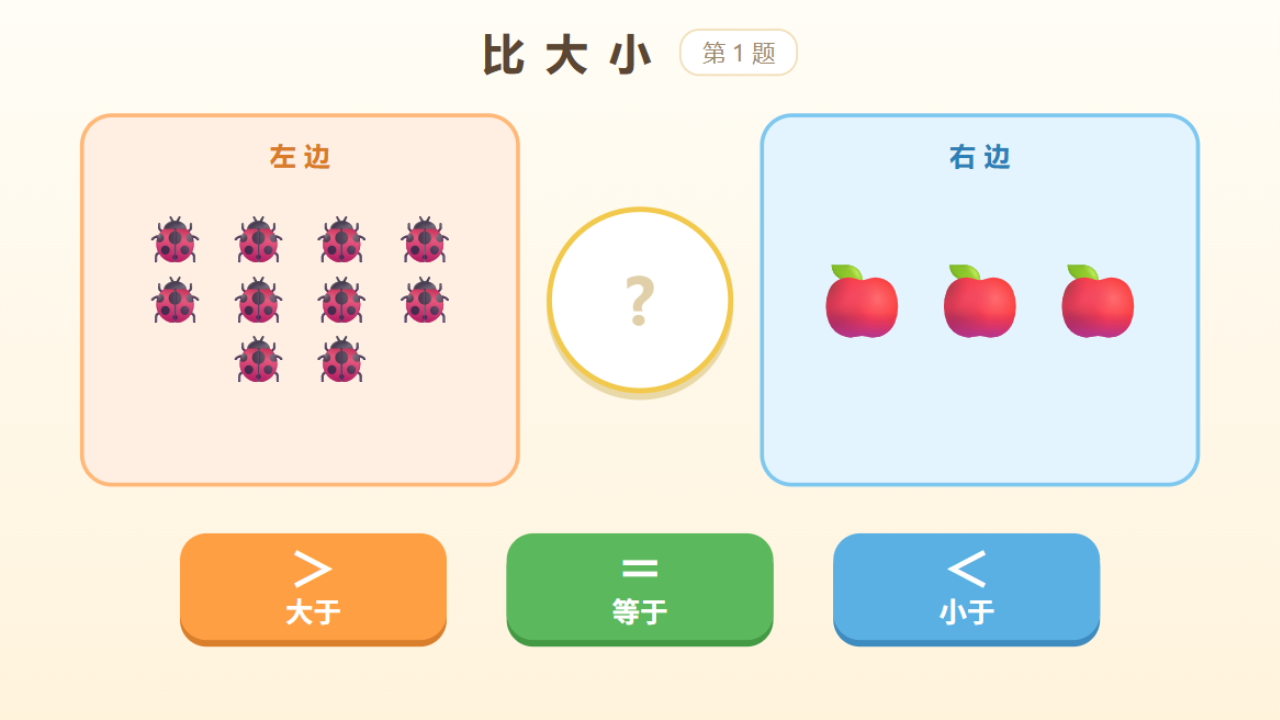
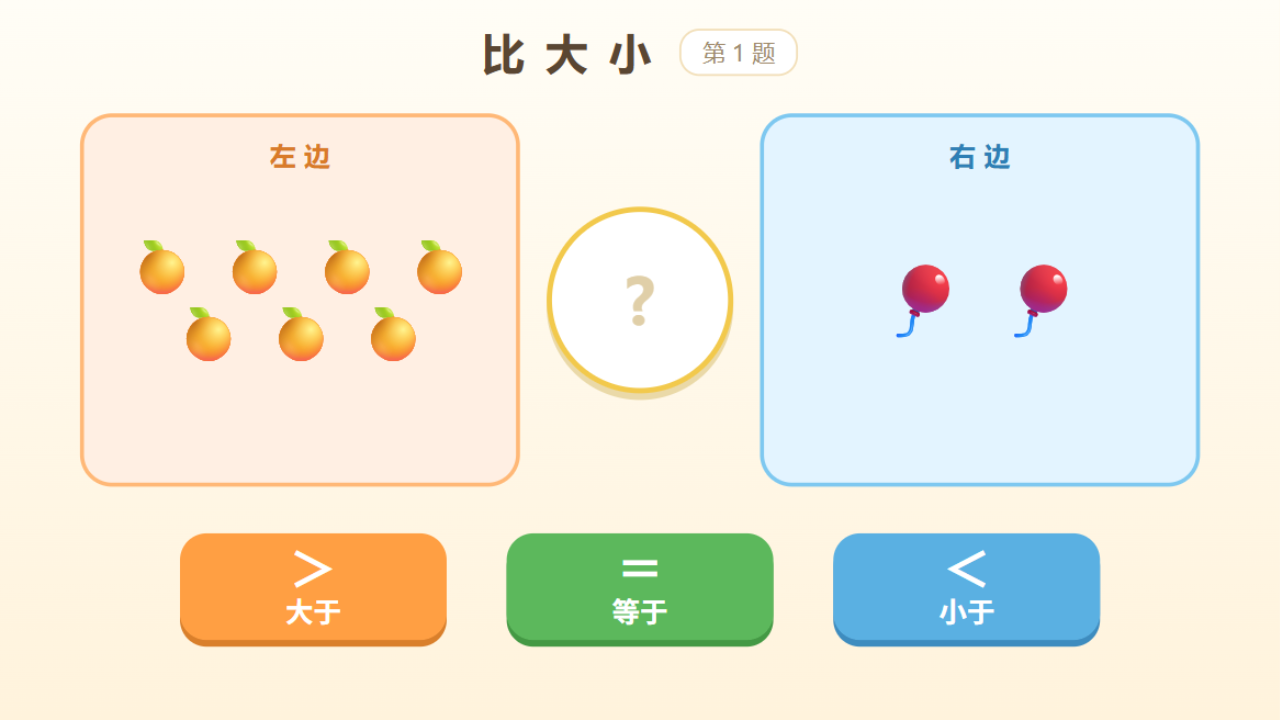
比大小图案池从emoji改为12种内嵌SVG手绘卡通物品(苹果/香蕉/草莓/橙子/葡萄/西瓜/星星/气球/花朵/瓢虫/小鱼/礼物，粗描边亮色与争霸赛画风统一)，修复缺emoji字体的教室电脑数数对象显示方框问题；首页清除全部emoji装饰(标题/游戏名/兜底图标改文字与汉字)，教室精简系统不再出方框；更新比大小预览图

Changed region(s): [[0.0938, 0.3056, 0.375, 0.55], [0.625, 0.3667, 0.9062, 0.4889]]

diff --git a/index.html b/index.html
@@ -91,7 +91,7 @@
 <body>
 <div class="wrap">
     <div class="hero">
-        <h1>🎮 小学数学游戏目录</h1>
+        <h1>小学数学游戏目录</h1>
         <p>先选年级 → 每个游戏的卡片就是它的打开画面 · 教材版本：人教版（2022新课标）</p>
     </div>
 
@@ -103,7 +103,7 @@
         <div id="gameGrid"></div>
     </div>
 
-    <footer>📌 游戏按年级归档：小学一年级/ · 二年级/ · 三年级/ · 四年级/ · 通用工具/ · 卡片背景为游戏初始画面截图（thumbs/）</footer>
+    <footer> 游戏按年级归档：小学一年级/ · 二年级/ · 三年级/ · 四年级/ · 通用工具/ · 卡片背景为游戏初始画面截图（thumbs/）</footer>
 </div>
 
 <script>
@@ -112,69 +112,69 @@
    s = 预览图文件名（thumbs/<s>.png，没有预览图就不写 s，卡片自动用渐变+图标兜底） */
 var GRADES = [
 { id:'g1', name:'小学一年级', short:'一', c:'#E8623C', tag:'当前重点年级', games:[
-  { n:'🤼 数学拔河', f:'小学一年级/数学拔河.html', d:'课堂口算竞技 · 两队对战拉锯，难度可调（20以内/100以内/1000以内）', s:'tuohe', b:'可玩' },
-  { n:'🏁 数学赛车', f:'小学一年级/数学赛车.html', d:'口算竞速无限出题 · 单人VS AI / 双人对战 · 可自定义题库与BGM', s:'saiche', b:'可玩' },
-  { n:'🧑🤝🧑 排队找第几', f:'小学一年级/排队找第几.html', d:'基数（几个）与序数（第几）· 左右方位专项 · 语音读题', s:'paidui', b:'可玩' },
-  { n:'🕐 认识钟表', f:'小学一年级/认识钟表.html', d:'整时/半时口述教具 · 随机时间 + 情景模式「淘气的一天」', s:'zhongbiao', b:'可玩' },
-  { n:'🏎 飞驰人生口算', f:'小学一年级/飞驰人生口算.html', d:'智能出题（年级/知识点/难度）· 三人同台竞速PK · 连击冲线', s:'feichi', b:'可玩' },
-  { n:'🫧 凑十对对碰', f:'小学一年级/凑十对对碰.html', d:'凑十法专项（见8想2）· 泡泡碰碰 / 翻牌配对 / 闪电连击', s:'coudui', b:'可玩' },
-  { n:'🛒 欢乐购物街', f:'小学一年级/欢乐购物街.html', d:'认识人民币 · 元角进率 · 付钱找零 · 认一认/换零钱/去购物/小收银员', s:'gouwu', b:'可玩' },
-  { n:'🕵 图形特工队', f:'小学一年级/图形特工队.html', d:'认识图形（立体+平面）· 打地鼠/分拣快递/猜猜是谁/方位寻宝', s:'tegong', b:'可玩' },
-  { n:'⚖ 数字天平', f:'小学一年级/数字天平.html', d:'比多少 · 比大小 · 100以内数位（57 vs 75 拆数位看）三模式', s:'tianping', b:'可玩' },
-  { n:'📿 规律串珠师', f:'小学一年级/规律串珠师.html', d:'找规律 · AB/ABC/AAB 模式识别与创造 · 接龙猜珠/考考同桌', s:'chuanzhu', b:'可玩' },
-  { n:'🔥 破十训练营', f:'小学一年级/破十训练营.html', d:'20以内退位减法（下册重点）· 破十法/平十法 · 小棒拆解三步互动', s:'poshi', b:'可玩' },
-  { n:'🎲 飞行棋', f:'小学一年级/飞行棋.html', d:'积分兑换掷骰子走棋 · 落格事件（奖品/特权/惩罚）· 库存管理', s:'feixingqi', b:'可玩' },
-  { n:'🗺 飞行棋地图编辑器', f:'小学一年级/地图编辑器.html', d:'自定义棋盘地图 · S形/Z形/环形预设 · 保存后直接进入飞行棋', s:'ditu', b:'可玩' },
-  { n:'🍭 数字转盘小游戏', f:'小学一年级/数字转盘小游戏.html', d:'转盘组数 · 数的认识与比大小对战', s:'zhuanpan', b:'可玩' },
-  { n:'🍭 数字转盘 · 同数对决版', f:'小学一年级/数字转盘小游戏 每轮转动一次.html', d:'每轮转动一次的对决玩法', s:'zhuanpan2', b:'可玩' },
-  { n:'👀 看图说数字', f:'小学一年级/看图说数字.html', d:'看图说数 · 数的认识与比大小', s:'kantu', b:'可玩' },
-  { n:'🔢 数字识图闯关', f:'小学一年级/数字识图闯关.html', d:'10以内数数（含0）· 左右两队PK · 答对放烟花 · 题量可设置', s:'shitu', b:'可玩' },
-  { n:'🧊 立体图形认识', f:'小学一年级/立体图形认识.html', d:'球/正方体/长方体/圆柱 · 生活物品版 · 老师可上传实拍照片', s:'lifang', b:'可玩' },
-  { n:'🎓 认识立体图形 · 互动课件', f:'小学一年级/认识立体图形-互动课件.html', d:'公开课四环节课件 · 真3D舞台可拖拽旋转15件物品', s:'hudong', b:'可玩' },
-  { n:'🧱 立体图形小镇 · 整课课件', f:'小学一年级/认识立体图形-图形小镇课件.html', d:'16页整课翻页课件（情境→特征→连线→颁奖）· 公开课主力 · 支持嵌入PPT', s:'xiaozhen', b:'可玩' },
-  { n:'🚂 数字列车 6~10', f:'小学一年级/数字列车.html', d:'数量对应 / 尺子数序 / 第几节车厢 · 三级支架提示 · 语音播报', s:'lieshi', b:'可玩' },
-  { n:'🟠 分与合', f:'小学一年级/分与合.html', d:'2~10 的分与合 · 小球分房间找齐全部分法 · 范围可设置', s:'fenhe', b:'可玩' },
-  { n:'🎭 连续变化剧场', f:'小学一年级/连续变化剧场.html', d:'两步加减法动画 · 连加/连减/加减混合 · 答错按类型提示', s:'juchang', b:'可玩' },
-  { n:'🏭 一图四式算式工厂', f:'小学一年级/一图四式算式工厂.html', d:'一幅图写出两加两减 · 7张算式卡挑4张 · 错题告诉错在哪类', s:'yitu', b:'可玩' },
-  { n:'⚖ 比大小', f:'小学一年级/比大小.html', d:'数一数比一比：左右两组图案谁多谁少 · 大于/等于/小于 · 答对亮数字', s:'bidxiao', b:'可玩' },
-  { n:'🏆 比多少 · 四人争霸赛', f:'小学一年级/比多少四人争霸赛.html', d:'四人键盘抢答比多少（A S D / J K L / 1 2 3 / 7 8 9）· 最先+2 其他+1 · 轮末结算', s:'biduoshao', b:'可玩' }
+  { n:'数学拔河', f:'小学一年级/数学拔河.html', d:'课堂口算竞技 · 两队对战拉锯，难度可调（20以内/100以内/1000以内）', s:'tuohe', b:'可玩' },
+  { n:'数学赛车', f:'小学一年级/数学赛车.html', d:'口算竞速无限出题 · 单人VS AI / 双人对战 · 可自定义题库与BGM', s:'saiche', b:'可玩' },
+  { n:' 排队找第几', f:'小学一年级/排队找第几.html', d:'基数（几个）与序数（第几）· 左右方位专项 · 语音读题', s:'paidui', b:'可玩' },
+  { n:'认识钟表', f:'小学一年级/认识钟表.html', d:'整时/半时口述教具 · 随机时间 + 情景模式「淘气的一天」', s:'zhongbiao', b:'可玩' },
+  { n:'飞驰人生口算', f:'小学一年级/飞驰人生口算.html', d:'智能出题（年级/知识点/难度）· 三人同台竞速PK · 连击冲线', s:'feichi', b:'可玩' },
+  { n:'凑十对对碰', f:'小学一年级/凑十对对碰.html', d:'凑十法专项（见8想2）· 泡泡碰碰 / 翻牌配对 / 闪电连击', s:'coudui', b:'可玩' },
+  { n:'欢乐购物街', f:'小学一年级/欢乐购物街.html', d:'认识人民币 · 元角进率 · 付钱找零 · 认一认/换零钱/去购物/小收银员', s:'gouwu', b:'可玩' },
+  { n:'图形特工队', f:'小学一年级/图形特工队.html', d:'认识图形（立体+平面）· 打地鼠/分拣快递/猜猜是谁/方位寻宝', s:'tegong', b:'可玩' },
+  { n:'数字天平', f:'小学一年级/数字天平.html', d:'比多少 · 比大小 · 100以内数位（57 vs 75 拆数位看）三模式', s:'tianping', b:'可玩' },
+  { n:'规律串珠师', f:'小学一年级/规律串珠师.html', d:'找规律 · AB/ABC/AAB 模式识别与创造 · 接龙猜珠/考考同桌', s:'chuanzhu', b:'可玩' },
+  { n:'破十训练营', f:'小学一年级/破十训练营.html', d:'20以内退位减法（下册重点）· 破十法/平十法 · 小棒拆解三步互动', s:'poshi', b:'可玩' },
+  { n:'飞行棋', f:'小学一年级/飞行棋.html', d:'积分兑换掷骰子走棋 · 落格事件（奖品/特权/惩罚）· 库存管理', s:'feixingqi', b:'可玩' },
+  { n:'飞行棋地图编辑器', f:'小学一年级/地图编辑器.html', d:'自定义棋盘地图 · S形/Z形/环形预设 · 保存后直接进入飞行棋', s:'ditu', b:'可玩' },
+  { n:'数字转盘小游戏', f:'小学一年级/数字转盘小游戏.html', d:'转盘组数 · 数的认识与比大小对战', s:'zhuanpan', b:'可玩' },
+  { n:'数字转盘 · 同数对决版', f:'小学一年级/数字转盘小游戏 每轮转动一次.html', d:'每轮转动一次的对决玩法', s:'zhuanpan2', b:'可玩' },
+  { n:'看图说数字', f:'小学一年级/看图说数字.html', d:'看图说数 · 数的认识与比大小', s:'kantu', b:'可玩' },
+  { n:'数字识图闯关', f:'小学一年级/数字识图闯关.html', d:'10以内数数（含0）· 左右两队PK · 答对放烟花 · 题量可设置', s:'shitu', b:'可玩' },
+  { n:'立体图形认识', f:'小学一年级/立体图形认识.html', d:'球/正方体/长方体/圆柱 · 生活物品版 · 老师可上传实拍照片', s:'lifang', b:'可玩' },
+  { n:'认识立体图形 · 互动课件', f:'小学一年级/认识立体图形-互动课件.html', d:'公开课四环节课件 · 真3D舞台可拖拽旋转15件物品', s:'hudong', b:'可玩' },
+  { n:'立体图形小镇 · 整课课件', f:'小学一年级/认识立体图形-图形小镇课件.html', d:'16页整课翻页课件（情境→特征→连线→颁奖）· 公开课主力 · 支持嵌入PPT', s:'xiaozhen', b:'可玩' },
+  { n:'数字列车 6~10', f:'小学一年级/数字列车.html', d:'数量对应 / 尺子数序 / 第几节车厢 · 三级支架提示 · 语音播报', s:'lieshi', b:'可玩' },
+  { n:'分与合', f:'小学一年级/分与合.html', d:'2~10 的分与合 · 小球分房间找齐全部分法 · 范围可设置', s:'fenhe', b:'可玩' },
+  { n:'连续变化剧场', f:'小学一年级/连续变化剧场.html', d:'两步加减法动画 · 连加/连减/加减混合 · 答错按类型提示', s:'juchang', b:'可玩' },
+  { n:'一图四式算式工厂', f:'小学一年级/一图四式算式工厂.html', d:'一幅图写出两加两减 · 7张算式卡挑4张 · 错题告诉错在哪类', s:'yitu', b:'可玩' },
+  { n:'比大小', f:'小学一年级/比大小.html', d:'数一数比一比：左右两组图案谁多谁少 · 大于/等于/小于 · 答对亮数字', s:'bidxiao', b:'可玩' },
+  { n:'比多少 · 四人争霸赛', f:'小学一年级/比多少四人争霸赛.html', d:'四人键盘抢答比多少（A S D / J K L / 1 2 3 / 7 8 9）· 最先+2 其他+1 · 轮末结算', s:'biduoshao', b:'可玩' }
 ]},
 { id:'g2', name:'二年级', short:'二', c:'#F2A93B', tag:'时间 · 余数 · 数位', games:[
   { n:'⏰ 认识时间教学工具', f:'二年级/认识时间.html', d:'钟面认读 · 整时半时（一年级下册可作启蒙）', s:'shijian', b:'可玩' },
-  { n:'⚔ 时间认读PK赛', f:'二年级/时间认读PK赛.html', d:'几时几分 PK 对战 · 排行榜导出', s:'pk', b:'可玩' },
-  { n:'🍎 水果分一分（余数）', f:'二年级/水果分配 余数教学.html', d:'有余数的除法 · 拖拽分水果认识余数', s:'yushu', b:'可玩' },
-  { n:'🔎 数位探秘 · 摆一摆', f:'二年级/认识数字-多位数.html', d:'万以内数的认识 · 可调位数的数位学习', s:'shuwei', b:'可玩' }
+  { n:'时间认读PK赛', f:'二年级/时间认读PK赛.html', d:'几时几分 PK 对战 · 排行榜导出', s:'pk', b:'可玩' },
+  { n:'水果分一分（余数）', f:'二年级/水果分配 余数教学.html', d:'有余数的除法 · 拖拽分水果认识余数', s:'yushu', b:'可玩' },
+  { n:'数位探秘 · 摆一摆', f:'二年级/认识数字-多位数.html', d:'万以内数的认识 · 可调位数的数位学习', s:'shuwei', b:'可玩' }
 ]},
 { id:'g3', name:'三年级', short:'三', c:'#58A85C', tag:'上册 7 款 + 下册 8 款 = 15 款全覆盖', games:[
-  { n:'📏 测量大冒险', f:'三年级/测量大冒险.html', d:'三上·测量：毫米/分米/千米/吨', s:'celiang', b:'可玩' },
-  { n:'🏝 加减法运算岛', f:'三年级/加减法运算岛.html', d:'三上·万以内加减法：口算→竖式→估算', s:'yunsuan', b:'可玩' },
-  { n:'🌻 倍的认识小农场', f:'三年级/倍的认识小农场.html', d:'三上·倍的认识：圈一圈→算一算→应用题', s:'bei', b:'可玩' },
-  { n:'🏰 乘法城堡闯关', f:'三年级/乘法城堡闯关.html', d:'三上·多位数乘一位数：口算→竖式→估算', s:'chengfa', b:'可玩' },
-  { n:'🌻 周长设计师', f:'三年级/周长设计师.html', d:'三上·长方形和正方形：围栅栏数周长', s:'zhouchang', b:'可玩' },
-  { n:'🍕 分数披萨屋', f:'三年级/分数披萨屋.html', d:'三上·分数初步认识：切披萨涂奶油比大小', s:'pizza', b:'可玩' },
-  { n:'🔢 大数读法闯关（多位数）', f:'三年级/大数读法闯关 - 多位数.html', d:'万以内数（二下~三上衔接）：三四五位数读法', s:'dashu3', b:'可玩' },
-  { n:'🧭 方向导航员', f:'三年级/方向导航员.html', d:'三下·位置与方向：认方向→看地图→走路线', s:'fangxiang', b:'可玩' },
-  { n:'⛰ 除法登山队', f:'三年级/除法登山队.html', d:'三下·除数是一位数：口算→竖式→估算验算', s:'chufa', b:'可玩' },
-  { n:'📊 班级统计站', f:'三年级/班级统计站.html', d:'三下·复式统计表：读表→填表→对比分析', s:'tongji', b:'可玩' },
-  { n:'✖ 两位数乘乘乐', f:'三年级/两位数乘乘乐.html', d:'三下·两位数乘两位数：口算→竖式→估算应用', s:'chengcheng', b:'可玩' },
-  { n:'🎨 面积粉刷匠', f:'三年级/面积粉刷匠.html', d:'三下·面积：数格子→算面积→周长面积对比', s:'mianji', b:'可玩' },
-  { n:'📅 日历大转盘', f:'三年级/日历大转盘.html', d:'三下·年月日：大月小月→平年闰年', s:'rili', b:'可玩' },
-  { n:'🛒 小数超市', f:'三年级/小数超市.html', d:'三下·小数初步认识：认小数→比价格→购物算账', s:'xiaoshu', b:'可玩' },
-  { n:'👗 搭配魔法衣橱', f:'三年级/搭配魔法衣橱.html', d:'三下·搭配（二）：穿衣搭配→数字排列→握手连线', s:'dapei', b:'可玩' }
+  { n:'测量大冒险', f:'三年级/测量大冒险.html', d:'三上·测量：毫米/分米/千米/吨', s:'celiang', b:'可玩' },
+  { n:'加减法运算岛', f:'三年级/加减法运算岛.html', d:'三上·万以内加减法：口算→竖式→估算', s:'yunsuan', b:'可玩' },
+  { n:'倍的认识小农场', f:'三年级/倍的认识小农场.html', d:'三上·倍的认识：圈一圈→算一算→应用题', s:'bei', b:'可玩' },
+  { n:'乘法城堡闯关', f:'三年级/乘法城堡闯关.html', d:'三上·多位数乘一位数：口算→竖式→估算', s:'chengfa', b:'可玩' },
+  { n:'周长设计师', f:'三年级/周长设计师.html', d:'三上·长方形和正方形：围栅栏数周长', s:'zhouchang', b:'可玩' },
+  { n:'分数披萨屋', f:'三年级/分数披萨屋.html', d:'三上·分数初步认识：切披萨涂奶油比大小', s:'pizza', b:'可玩' },
+  { n:'大数读法闯关（多位数）', f:'三年级/大数读法闯关 - 多位数.html', d:'万以内数（二下~三上衔接）：三四五位数读法', s:'dashu3', b:'可玩' },
+  { n:'方向导航员', f:'三年级/方向导航员.html', d:'三下·位置与方向：认方向→看地图→走路线', s:'fangxiang', b:'可玩' },
+  { n:'除法登山队', f:'三年级/除法登山队.html', d:'三下·除数是一位数：口算→竖式→估算验算', s:'chufa', b:'可玩' },
+  { n:'班级统计站', f:'三年级/班级统计站.html', d:'三下·复式统计表：读表→填表→对比分析', s:'tongji', b:'可玩' },
+  { n:'两位数乘乘乐', f:'三年级/两位数乘乘乐.html', d:'三下·两位数乘两位数：口算→竖式→估算应用', s:'chengcheng', b:'可玩' },
+  { n:'面积粉刷匠', f:'三年级/面积粉刷匠.html', d:'三下·面积：数格子→算面积→周长面积对比', s:'mianji', b:'可玩' },
+  { n:'日历大转盘', f:'三年级/日历大转盘.html', d:'三下·年月日：大月小月→平年闰年', s:'rili', b:'可玩' },
+  { n:'小数超市', f:'三年级/小数超市.html', d:'三下·小数初步认识：认小数→比价格→购物算账', s:'xiaoshu', b:'可玩' },
+  { n:'搭配魔法衣橱', f:'三年级/搭配魔法衣橱.html', d:'三下·搭配（二）：穿衣搭配→数字排列→握手连线', s:'dapei', b:'可玩' }
 ]},
 { id:'g4', name:'四年级', short:'四', c:'#3E8CBF', tag:'大数的认识', games:[
-  { n:'🌏 大数读法闯关', f:'四年级/大数读法闯关.html', d:'四上·大数的认识：亿以内大数读法（真实数据）', s:'dashu4', b:'可玩' },
-  { n:'🚀 探索星球 · 大数读法', f:'四年级/探索星球-大数读法.html', d:'四上·大数的认识：星球探索式练习', s:'xingqiu', b:'可玩' }
+  { n:'大数读法闯关', f:'四年级/大数读法闯关.html', d:'四上·大数的认识：亿以内大数读法（真实数据）', s:'dashu4', b:'可玩' },
+  { n:'探索星球 · 大数读法', f:'四年级/探索星球-大数读法.html', d:'四上·大数的认识：星球探索式练习', s:'xingqiu', b:'可玩' }
 ]},
 { id:'gt', name:'通用工具', short:'通', c:'#9B6BD8', tag:'能力 & 课堂工具 · 不限年级', games:[
-  { n:'🟢 口算消消乐', f:'通用工具/消消乐(待改进).html', d:'二~三年级 · 加减乘除四版本（打磨中）', s:'xiaoxiaole', b:'待改进', bc:'wip' },
-  { n:'🧩 百变七巧板', f:'通用工具/百变七巧板.html', d:'图形与几何 · 自由拼摆、旋转拖拽', s:'qiqiao', b:'可玩' },
-  { n:'🧱 三视图挑战', f:'通用工具/小天才空间积木盒 - 三视图挑战.html', d:'空间想象 · 根据三视图拼搭积木', s:'santu', b:'可玩' },
-  { n:'❓ 课堂答题闯关', f:'通用工具/答题闯关游戏/classroom_quiz_game.html', d:'通用题库课堂答题闯关', s:'quiz', b:'工具', bc:'tool' },
-  { n:'🎯 趣味数学闯关', f:'通用工具/答题闯关游戏/千问ai小游戏1.html', d:'增强版答题闯关', s:'quiz2', b:'工具', bc:'tool' },
-  { n:'🐹 课堂宠物 ClassPet', f:'通用工具/zhuomianchongwu/index.html', d:'课堂激励系统 · 加分升级展示屏（需先启动本地服务端）', b:'工具', bc:'tool', fa:'🐹' },
-  { n:'📄 图片转文档工具', f:'图片转文档工具/使用说明.md', d:'练习卷截图 → 可编辑Word · 本地离线OCR', b:'工具', bc:'tool', fa:'📄' },
-  { n:'🐱 AI宠物乐园', f:'ai宠物/使用说明.md', d:'课堂宠物养成激励系统 · 需先启动 启动.bat', b:'系统', bc:'tool', fa:'🐱' }
+  { n:'口算消消乐', f:'通用工具/消消乐(待改进).html', d:'二~三年级 · 加减乘除四版本（打磨中）', s:'xiaoxiaole', b:'待改进', bc:'wip' },
+  { n:'百变七巧板', f:'通用工具/百变七巧板.html', d:'图形与几何 · 自由拼摆、旋转拖拽', s:'qiqiao', b:'可玩' },
+  { n:'三视图挑战', f:'通用工具/小天才空间积木盒 - 三视图挑战.html', d:'空间想象 · 根据三视图拼搭积木', s:'santu', b:'可玩' },
+  { n:'课堂答题闯关', f:'通用工具/答题闯关游戏/classroom_quiz_game.html', d:'通用题库课堂答题闯关', s:'quiz', b:'工具', bc:'tool' },
+  { n:'趣味数学闯关', f:'通用工具/答题闯关游戏/千问ai小游戏1.html', d:'增强版答题闯关', s:'quiz2', b:'工具', bc:'tool' },
+  { n:'课堂宠物 ClassPet', f:'通用工具/zhuomianchongwu/index.html', d:'课堂激励系统 · 加分升级展示屏（需先启动本地服务端）', b:'工具', bc:'tool', fa:'宠' },
+  { n:'图片转文档工具', f:'图片转文档工具/使用说明.md', d:'练习卷截图 → 可编辑Word · 本地离线OCR', b:'工具', bc:'tool', fa:'文' },
+  { n:'AI宠物乐园', f:'ai宠物/使用说明.md', d:'课堂宠物养成激励系统 · 需先启动 启动.bat', b:'系统', bc:'tool', fa:'AI' }
 ]}
 ];
 
@@ -217,7 +217,7 @@ function renderGames(gid){
     var chip=x.b?'<span class="chip '+(x.bc||'')+'">'+x.b+'</span>':'';
     var face=x.s
       ? '<div class="bgimg" style="background-image:url(\'thumbs/'+x.s+'.png\')"></div>'+(x.fa?'<div class="fa">'+x.fa+'</div>':'')
-      : '<div class="fa">'+(x.fa||'🎮')+'</div>';
+      : '<div class="fa">'+(x.fa||'玩')+'</div>';
     html+='<a class="card" style="--c:'+g.c+'" href="'+x.f+'">'+
       '<div class="thumb">'+face+chip+'</div>'+
       '<div class="cbody"><div class="cname">'+x.n+'</div><div class="cdesc">'+x.d+'</div></div></a>';

diff --git a/小学一年级/比大小.html b/小学一年级/比大小.html
@@ -125,7 +125,62 @@ var CONFIG = {
   NEXT_MS: 2000, // 答对后自动下一题的等待毫秒
   TTS_RATE: 0.85,
   // 图案池：左右各随机取一种（保证不同），可自由增删
-  EMOJIS: ['🍎','🍌','🍓','🍊','🍇','🍉','⭐','🎈','🌸','🐞','🐟','🎁']
+  OBJECTS: ['apple','banana','strawberry','orange','grape','watermelon','star','balloon','flower','ladybug','fish','gift']
+};
+
+/* 图案库：全部为内嵌 SVG 手绘（不依赖系统 emoji 字体，教室精简系统也不会显示方框） */
+var SVGOBJ = {
+  apple:
+    '<path d="M50 28 C30 28 20 46 22 63 C24 80 35 92 50 92 C65 92 76 80 78 63 C80 46 70 28 50 28 Z" fill="#E84545" stroke="#2b3850" stroke-width="4"/>'+
+    '<path d="M50 28 C50 19 54 13 62 9" fill="none" stroke="#7A4A21" stroke-width="5" stroke-linecap="round"/>'+
+    '<path d="M53 18 C58 9 69 7 75 10 C73 18 64 24 54 22 Z" fill="#58A85C" stroke="#2b3850" stroke-width="3"/>'+
+    '<ellipse cx="38" cy="48" rx="6" ry="10" fill="#fff" opacity=".35"/>',
+  banana:
+    '<path d="M22 20 C17 52 38 82 72 85 C81 86 86 78 80 74 C56 68 40 50 35 24 C34 16 24 13 22 20 Z" fill="#F5C842" stroke="#2b3850" stroke-width="4" stroke-linejoin="round"/>'+
+    '<path d="M23 19 L28 26" stroke="#7A4A21" stroke-width="5" stroke-linecap="round"/>'+
+    '<path d="M76 82 L72 76" stroke="#7A4A21" stroke-width="5" stroke-linecap="round"/>',
+  strawberry:
+    '<path d="M50 32 C63 32 76 41 76 55 C76 73 62 88 50 93 C38 88 24 73 24 55 C24 41 37 32 50 32 Z" fill="#E84545" stroke="#2b3850" stroke-width="4"/>'+
+    '<path d="M31 29 C37 21 46 19 50 25 C54 19 63 21 69 29 C63 36 54 38 50 33 C46 38 37 36 31 29 Z" fill="#58A85C" stroke="#2b3850" stroke-width="3"/>'+
+    '<g fill="#FFE9A8"><ellipse cx="40" cy="52" rx="2.5" ry="4"/><ellipse cx="60" cy="52" rx="2.5" ry="4"/><ellipse cx="50" cy="63" rx="2.5" ry="4"/><ellipse cx="38" cy="72" rx="2.5" ry="4"/><ellipse cx="62" cy="72" rx="2.5" ry="4"/></g>',
+  orange:
+    '<circle cx="50" cy="57" r="32" fill="#F2A93B" stroke="#2b3850" stroke-width="4"/>'+
+    '<path d="M50 25 C50 17 55 12 62 9" fill="none" stroke="#7A4A21" stroke-width="5" stroke-linecap="round"/>'+
+    '<path d="M52 15 C58 7 68 6 73 10 C70 17 60 20 52 15 Z" fill="#58A85C" stroke="#2b3850" stroke-width="3"/>'+
+    '<circle cx="40" cy="46" r="4" fill="#fff" opacity=".4"/>',
+  grape:
+    '<path d="M50 26 C50 18 54 13 60 10" fill="none" stroke="#7A4A21" stroke-width="5" stroke-linecap="round"/>'+
+    '<g fill="#8f8fe8" stroke="#2b3850" stroke-width="3.5"><circle cx="33" cy="38" r="13"/><circle cx="67" cy="38" r="13"/><circle cx="50" cy="42" r="13"/><circle cx="40" cy="60" r="13"/><circle cx="60" cy="60" r="13"/><circle cx="50" cy="77" r="13"/></g>',
+  watermelon:
+    '<path d="M9 38 A41 41 0 0 0 91 38 L9 38 Z" fill="#58A85C" stroke="#2b3850" stroke-width="4" stroke-linejoin="round"/>'+
+    '<path d="M17 38 A33 33 0 0 0 83 38 L17 38 Z" fill="#F26D6D"/>'+
+    '<g fill="#2b3850"><ellipse cx="38" cy="50" rx="2.5" ry="4"/><ellipse cx="62" cy="50" rx="2.5" ry="4"/><ellipse cx="50" cy="62" rx="2.5" ry="4"/></g>',
+  star:
+    '<path d="M50 6 L61 38 L95 38 L67 58 L78 92 L50 71 L22 92 L33 58 L5 38 L39 38 Z" fill="#F2C94C" stroke="#2b3850" stroke-width="4" stroke-linejoin="round"/>',
+  balloon:
+    '<path d="M50 80 C45 88 55 92 50 98" fill="none" stroke="#2b3850" stroke-width="3"/>'+
+    '<ellipse cx="50" cy="40" rx="27" ry="33" fill="#5AB0E2" stroke="#2b3850" stroke-width="4"/>'+
+    '<path d="M44 72 L56 72 L50 82 Z" fill="#3E8CBF" stroke="#2b3850" stroke-width="3" stroke-linejoin="round"/>'+
+    '<path d="M38 28 C41 21 46 17 50 16" fill="none" stroke="#fff" stroke-width="4" stroke-linecap="round" opacity=".5"/>',
+  flower:
+    '<g fill="#F28CA8" stroke="#2b3850" stroke-width="3"><circle cx="50" cy="20" r="14"/><circle cx="73" cy="37" r="14"/><circle cx="64" cy="63" r="14"/><circle cx="36" cy="63" r="14"/><circle cx="27" cy="37" r="14"/></g>'+
+    '<circle cx="50" cy="44" r="12" fill="#F2C94C" stroke="#2b3850" stroke-width="3"/>',
+  ladybug:
+    '<circle cx="50" cy="56" r="30" fill="#E84545" stroke="#2b3850" stroke-width="4"/>'+
+    '<line x1="50" y1="30" x2="50" y2="85" stroke="#2b3850" stroke-width="3"/>'+
+    '<circle cx="50" cy="24" r="13" fill="#2b3850"/>'+
+    '<g fill="#2b3850"><circle cx="36" cy="50" r="4.5"/><circle cx="64" cy="50" r="4.5"/><circle cx="40" cy="68" r="4.5"/><circle cx="60" cy="68" r="4.5"/></g>'+
+    '<g fill="none" stroke="#2b3850" stroke-width="3" stroke-linecap="round"><path d="M44 13 C42 8 38 6 34 6"/><path d="M56 13 C58 8 62 6 66 6"/></g>',
+  fish:
+    '<path d="M14 50 C26 33 48 29 64 41 L80 28 L76 50 L80 72 L64 59 C48 71 26 67 14 50 Z" fill="#F2A93B" stroke="#2b3850" stroke-width="4" stroke-linejoin="round"/>'+
+    '<circle cx="30" cy="45" r="4" fill="#2b3850"/>'+
+    '<path d="M44 38 C52 42 52 56 44 60" fill="none" stroke="#2b3850" stroke-width="3"/>',
+  gift:
+    '<rect x="18" y="40" width="64" height="48" rx="6" fill="#F28CA8" stroke="#2b3850" stroke-width="4"/>'+
+    '<rect x="13" y="29" width="74" height="15" rx="5" fill="#F2A93B" stroke="#2b3850" stroke-width="4"/>'+
+    '<rect x="43" y="29" width="14" height="59" fill="#FFE082" stroke="#2b3850" stroke-width="3"/>'+
+    '<circle cx="40" cy="21" r="10" fill="#FFE082" stroke="#2b3850" stroke-width="3"/>'+
+    '<circle cx="60" cy="21" r="10" fill="#FFE082" stroke="#2b3850" stroke-width="3"/>'
 };
 
 /* ---------------- 状态 ---------------- */
@@ -178,10 +233,10 @@ function newQuestion() {
   S.locked = false;
 
   // 左右图案：随机两种、保证不同
-  var i = ri(0, CONFIG.EMOJIS.length - 1);
-  var j = ri(0, CONFIG.EMOJIS.length - 2);
+  var i = ri(0, CONFIG.OBJECTS.length - 1);
+  var j = ri(0, CONFIG.OBJECTS.length - 2);
   if (j >= i) j++;
-  S.eL = CONFIG.EMOJIS[i]; S.eR = CONFIG.EMOJIS[j];
+  S.eL = CONFIG.OBJECTS[i]; S.eR = CONFIG.OBJECTS[j];
   S.left = ri(CONFIG.MIN, CONFIG.MAX);
   S.right = ri(CONFIG.MIN, CONFIG.MAX);
 
@@ -197,17 +252,16 @@ function newQuestion() {
   hideToast();
 }
 
-function renderGrid(gridId, emoji, n) {
+function renderGrid(gridId, key, n) {
   var g = $(gridId);
   g.innerHTML = '';
-  // 数量不同字号不同：少则大、多则小，保证 10 个也放得下
+  // 数量不同大小不同：少则大、多则小，保证 10 个也放得下
   var size = n <= 3 ? 110 : (n <= 5 ? 96 : (n <= 7 ? 82 : 72));
   for (var k = 0; k < n; k++) {
     var d = document.createElement('div');
     d.className = 'obj';
-    d.style.fontSize = size + 'px';
     d.style.animationDelay = (k * 0.06) + 's';
-    d.textContent = emoji;
+    d.innerHTML = '<svg viewBox="0 0 100 100" width="' + size + '" height="' + size + '" style="display:block">' + SVGOBJ[key] + '</svg>';
     g.appendChild(d);
   }
 }
